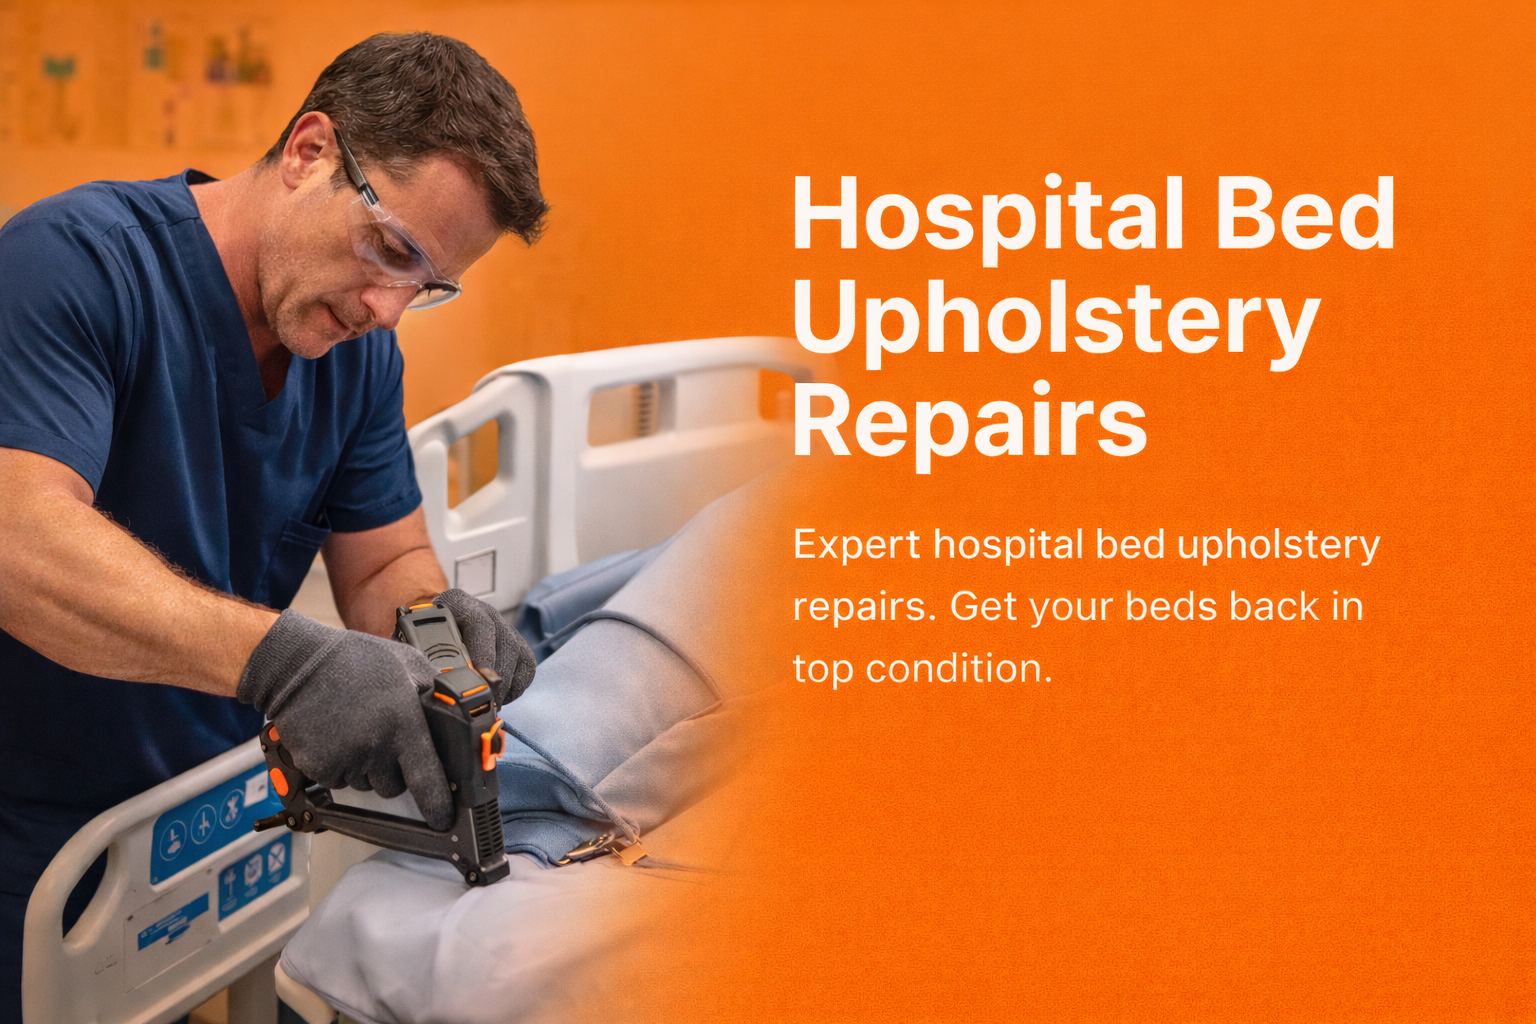
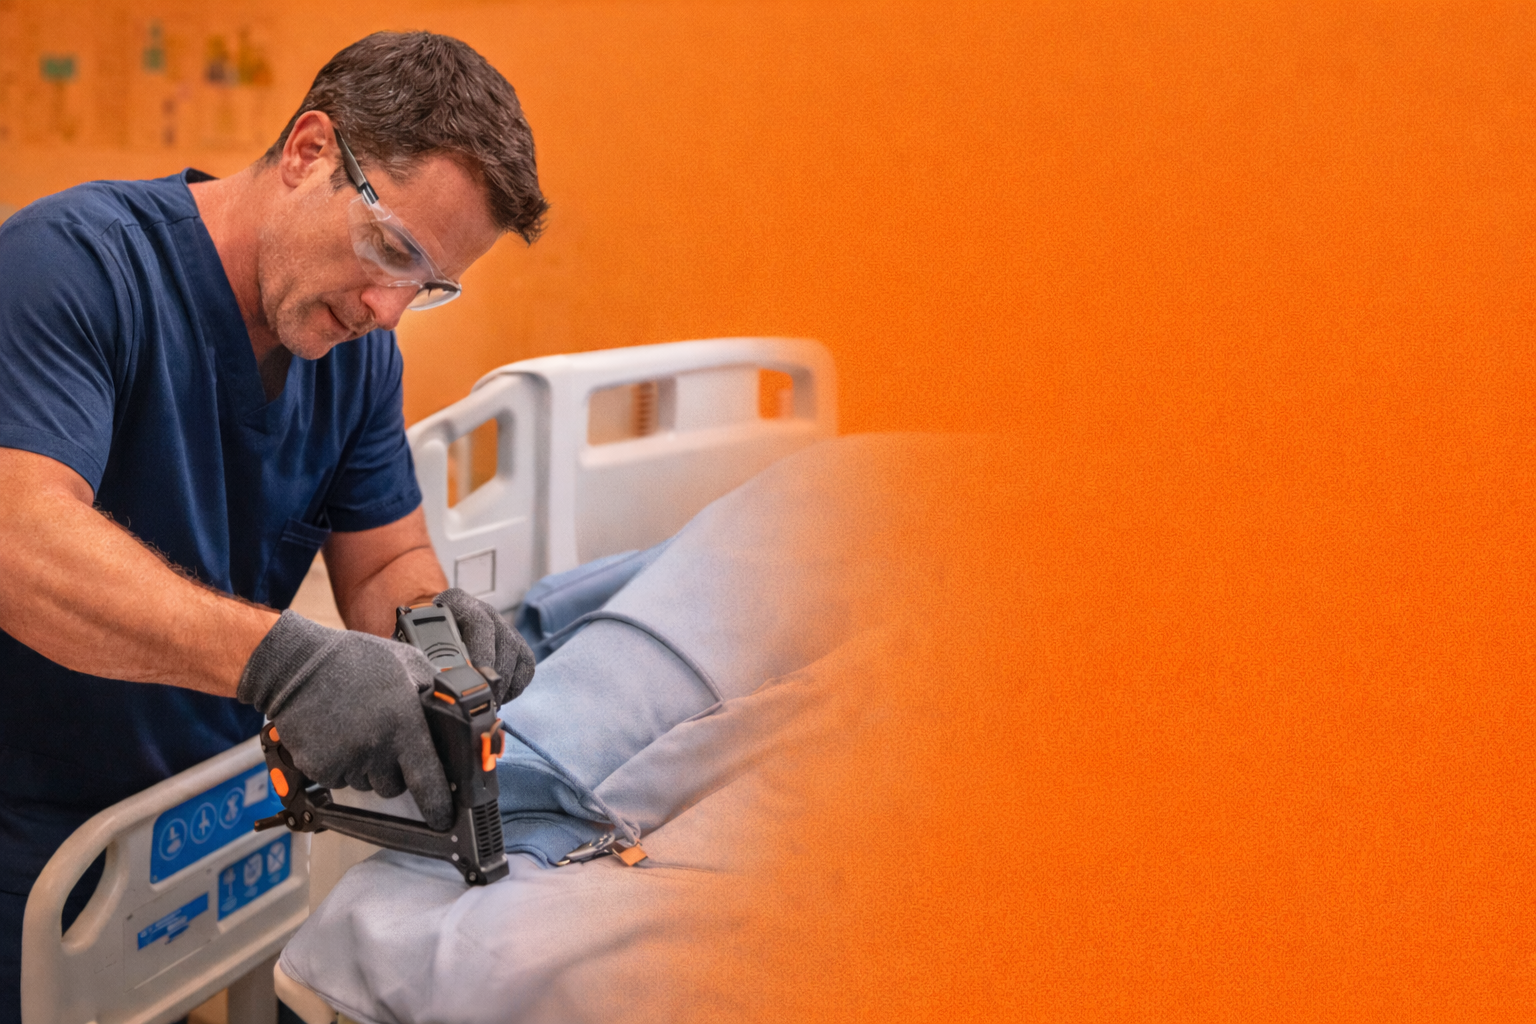
fixes

diff --git a/pages/Home.tsx b/pages/Home.tsx
@@ -8,24 +8,24 @@ const Home: React.FC = () => {
   return (
     <div className="space-y-16 pb-20">
       {/* Hero Section */}
-      <section className="relative bg-slate-900 text-white py-24 overflow-hidden">
-        <div className="absolute inset-0 z-0">
-          <img 
-            src="https://picsum.photos/seed/hero1/1600/900" 
-            alt="Medical background" 
-            className="w-full h-full object-cover opacity-30"
-          />
-          <div className="absolute inset-0 bg-gradient-to-r from-slate-900 via-slate-900/80 to-transparent"></div>
-        </div>
-        
-        <div className="max-w-7xl mx-auto px-4 sm:px-6 lg:px-8 relative z-10">
-          <div className="max-w-2xl">
-            <h1 className="text-4xl md:text-6xl font-extrabold mb-6 leading-tight">
-              We'll Be There for your Medical Seating Repairs
-            </h1>
-            <p className="text-xl text-slate-300 mb-8">
-              Premium medical equipment repairs. Helping healthcare providers maintain their facilities with excellence.
-            </p>
+      <section className="relative">
+        <img
+          src="/assets/banner.png"
+          alt="Medical background"
+          className="w-full h-auto"
+        />
+        <div className="absolute inset-0 flex flex-col justify-between py-8 md:py-12">
+          <div className="max-w-7xl mx-auto px-4 sm:px-6 lg:px-8 w-full flex justify-end">
+            <div className="max-w-2xl text-right">
+              <h1 className="text-4xl md:text-6xl font-extrabold mb-6 leading-tight text-white drop-shadow-lg">
+                We'll Be There for your Medical Seating Repairs
+              </h1>
+              <p className="text-xl text-white/90 drop-shadow">
+                Premium medical equipment repairs. Helping healthcare providers maintain their facilities with excellence.
+              </p>
+            </div>
+          </div>
+          <div className="max-w-7xl mx-auto px-4 sm:px-6 lg:px-8 w-full flex justify-end">
             <button
               onClick={() => setShowModal(true)}
               className="bg-orange-400 hover:bg-orange-500 text-white px-8 py-4 rounded-xl font-bold text-lg transition-all transform hover:scale-105"
